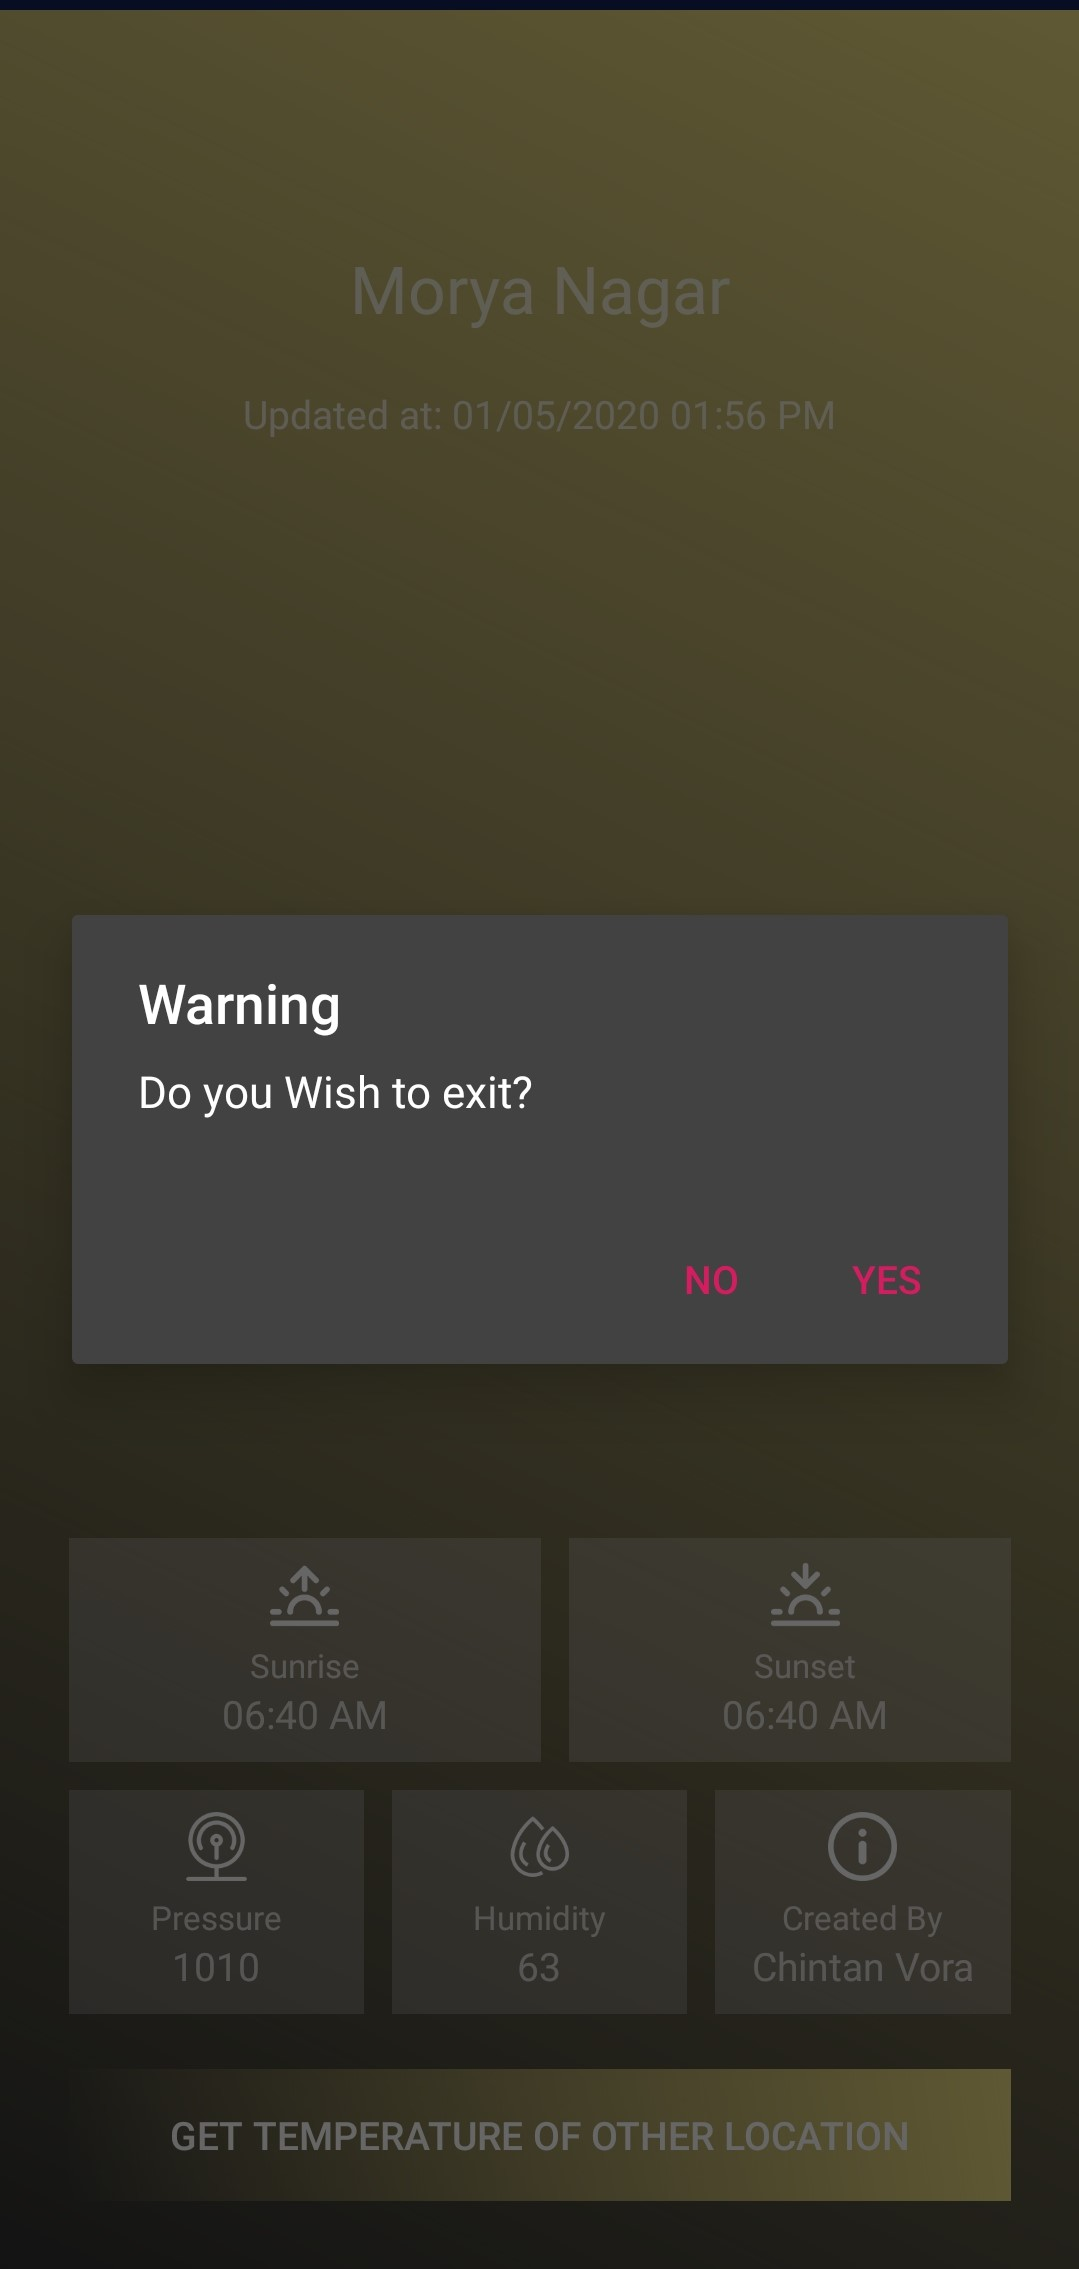
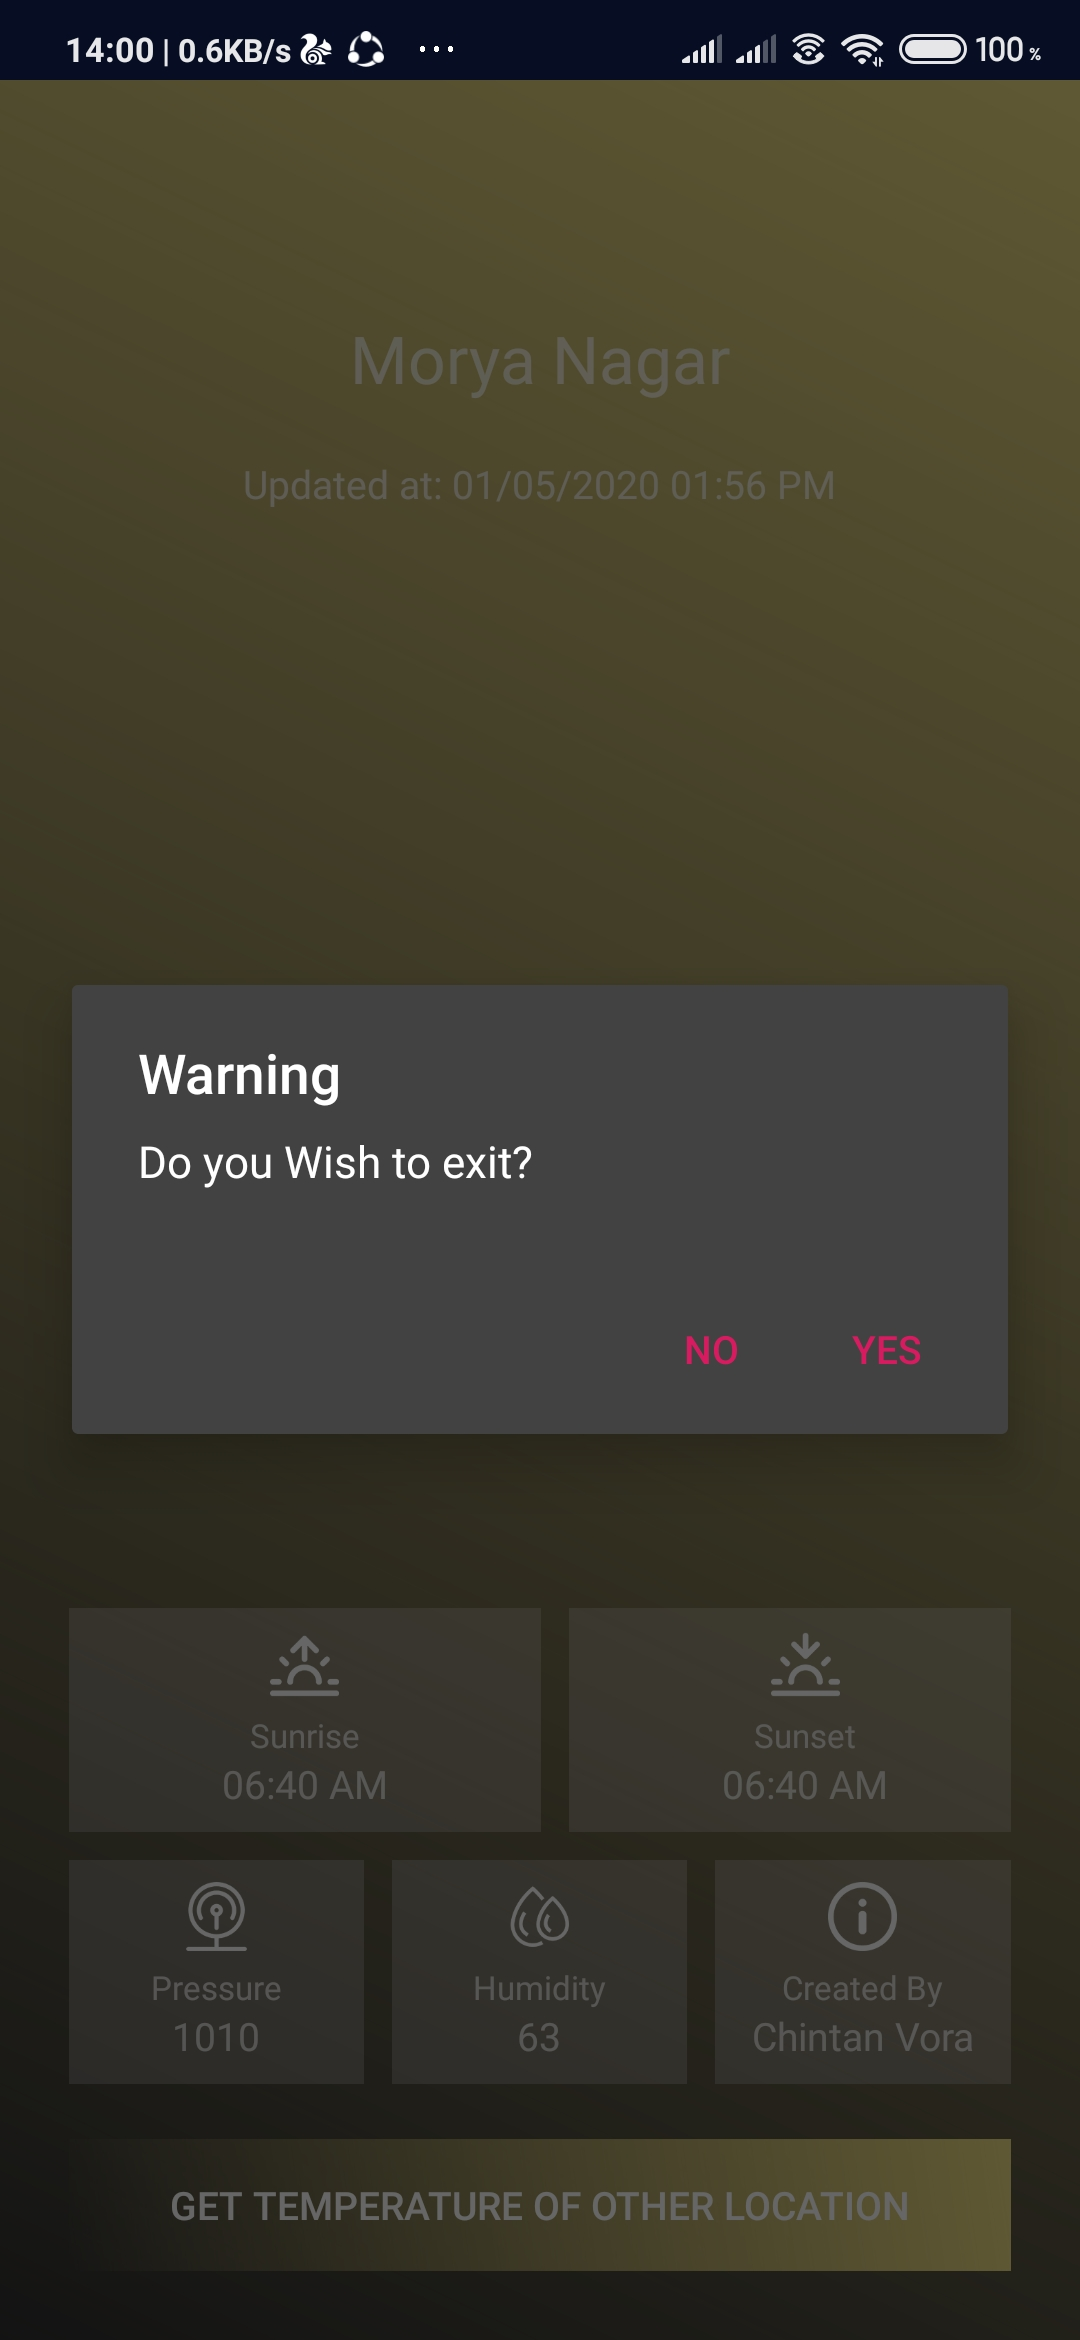
Images Resized

diff --git a/readme.md b/readme.md
@@ -17,7 +17,7 @@ The flow of the Application is as follows :
 
 
 4] After entering the city name for eg "DELHI", you might get the following results:
-![Other Location-2](./Screenshots/Other_loc_Screenshot- (2).jpg)  
+![Other Location-2](./Screenshots/Other_loca_Screenshot.jpg)  
 
 
 5] You can quit the application as I have added an alert if you aren't sure to quit the application
